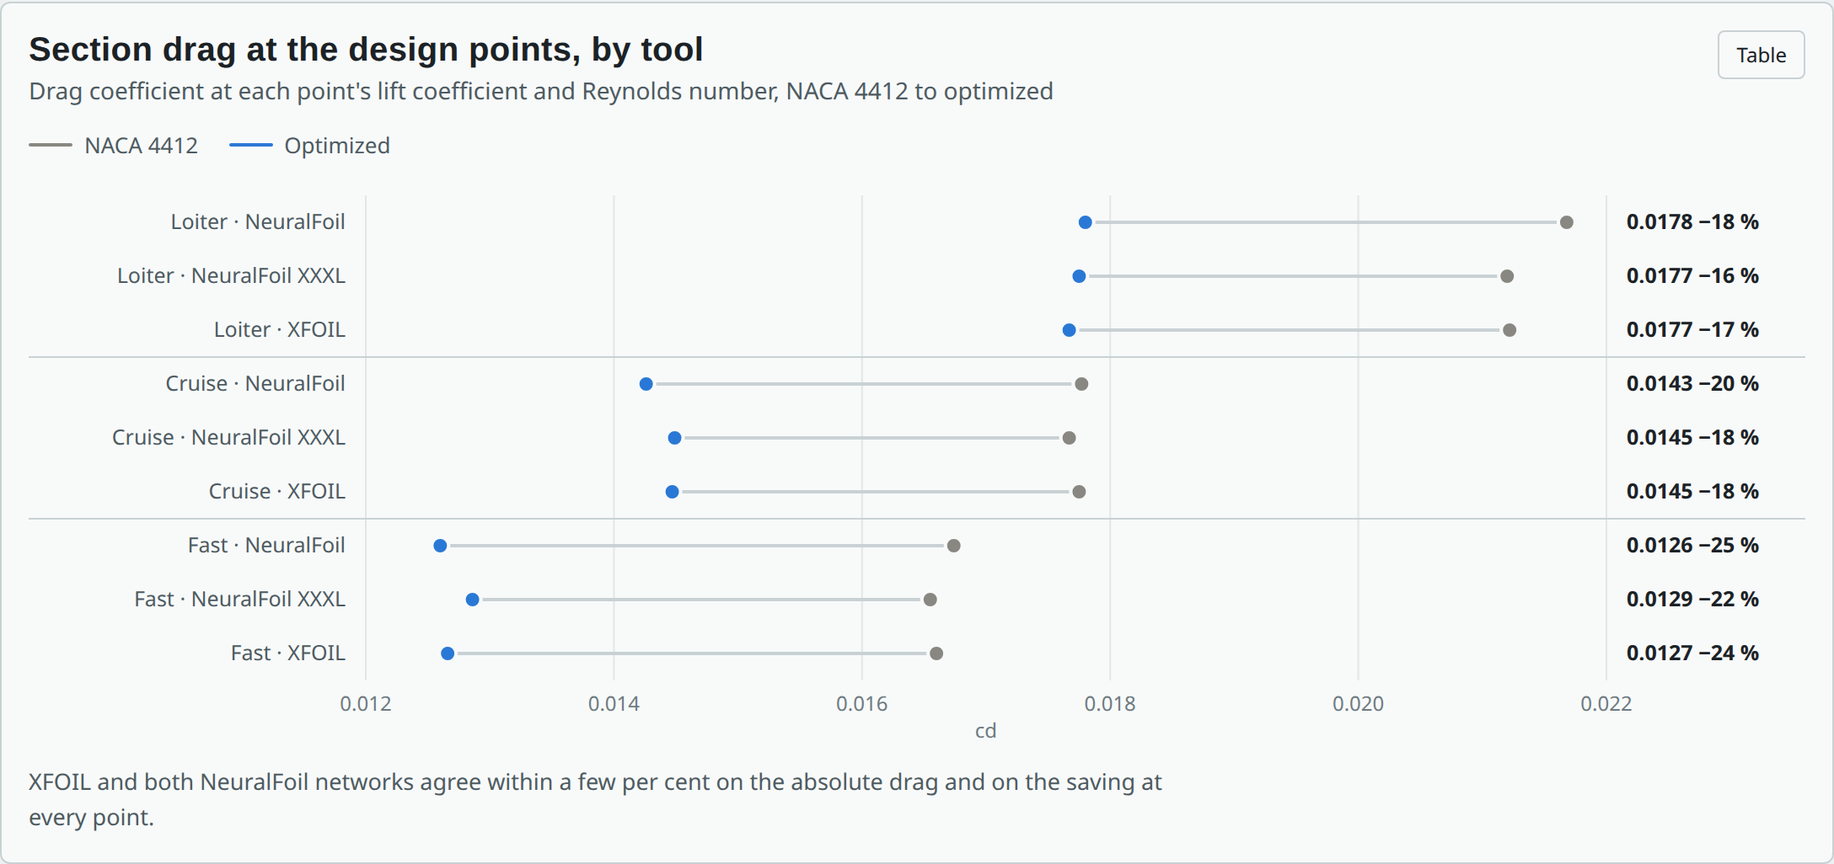
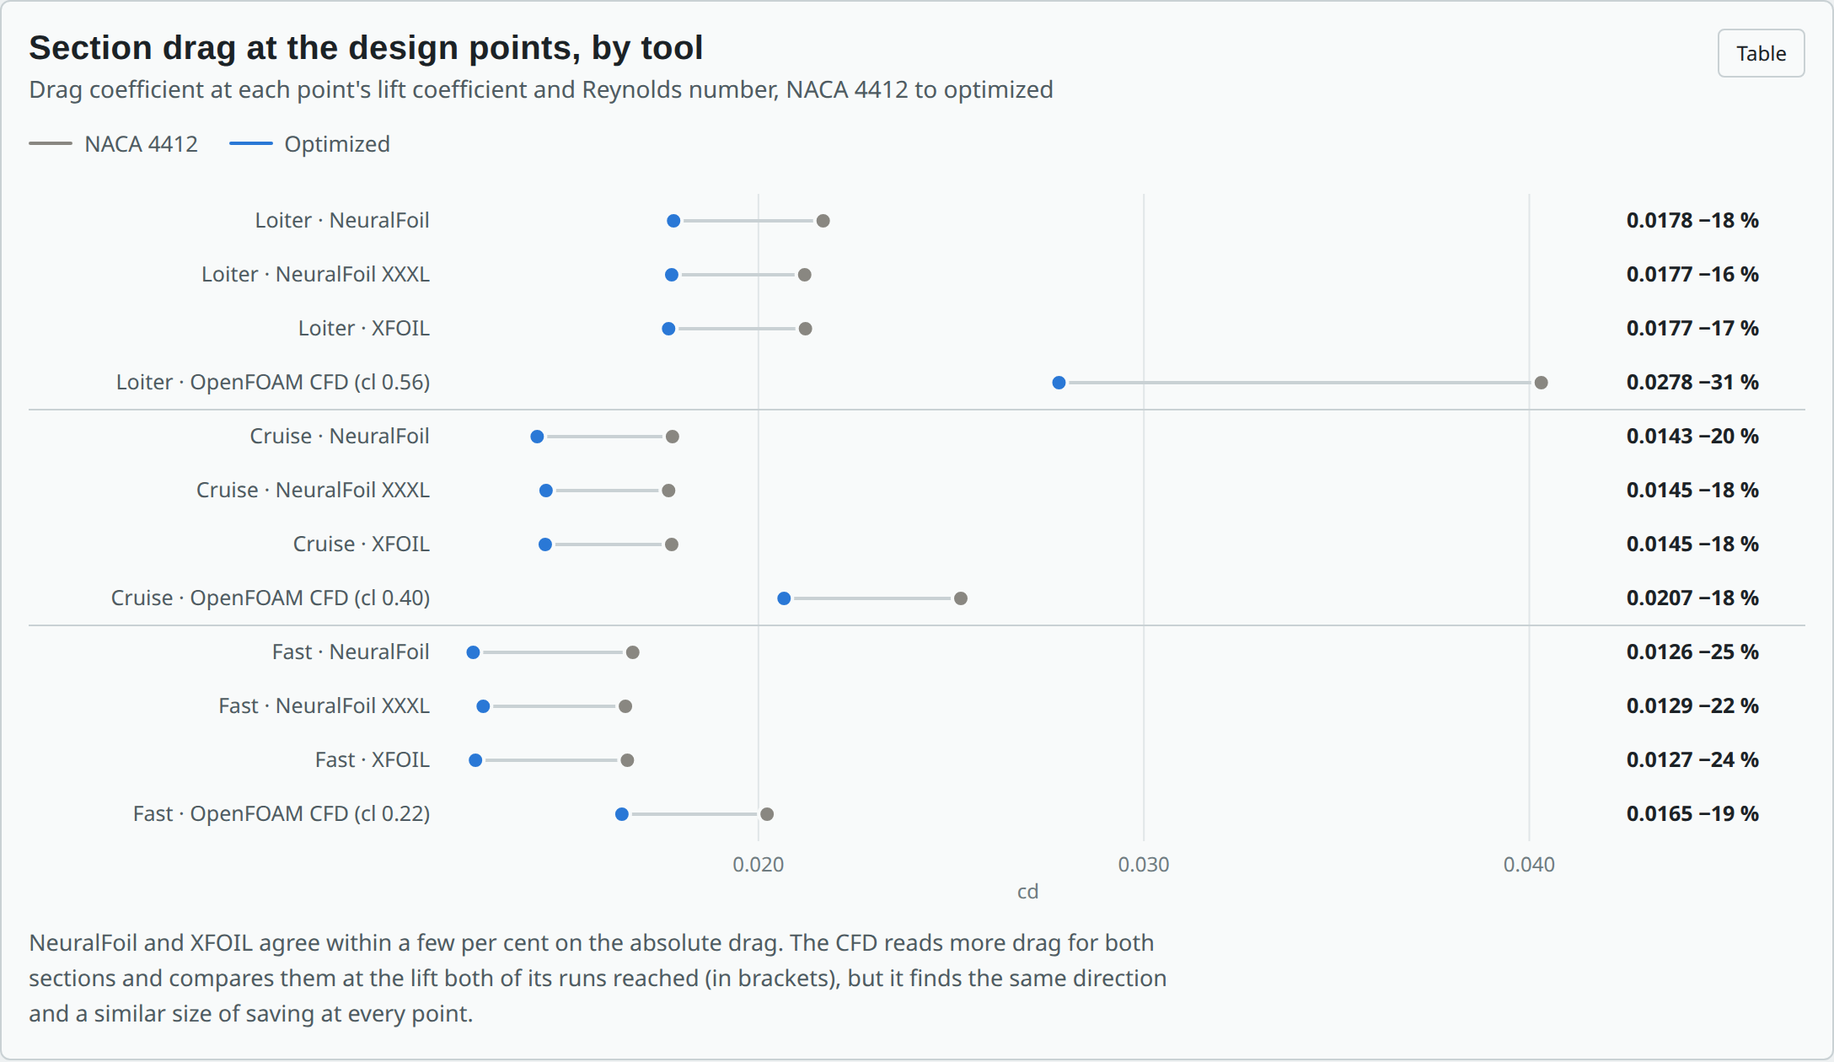
Finish the cross-checks: CFD results, polar panels, README section
The OpenFOAM runs are in: at equal lift the optimized section has 18-31 %
less drag than the NACA 4412 at the three design points, the same ranking as
NeuralFoil and XFOIL. The set-up check at Re 1e6 lands within 2 % lift and
3 % drag of XFOIL. The page plots every CFD run against the polars, and the
README gains a Cross-checks section.

Claude-Session: https://claude.ai/code/session_01VTcHBPQk54N4vWFkgkuVEf

diff --git a/aero/study/index.html b/aero/study/index.html
@@ -67,7 +67,9 @@
   .grid2 { display: grid; grid-template-columns: repeat(2, minmax(0, 1fr)); gap: 16px; }
   @media (max-width: 880px) { .grid2 { grid-template-columns: minmax(0, 1fr); } }
   figure { margin: 0; background: var(--panel); border: 1px solid var(--rule); border-radius: 6px; padding: 16px; display: grid; gap: 10px; min-width: 0; }
-  figure.wide, .grid3.wide { grid-column: 1 / -1; }
+  figure.wide, .xc-pol.wide { grid-column: 1 / -1; }
+  .xc-pol { display: grid; gap: 10px; min-width: 0; }
+  .xc-pol .fhead p { font-size: 14px; color: var(--ink-2); margin-top: 2px; }
   .grid3 { display: grid; grid-template-columns: repeat(3, minmax(0, 1fr)); gap: 16px; }
   @media (max-width: 980px) { .grid3 { grid-template-columns: minmax(0, 1fr); } }
   .fhead { display: flex; justify-content: space-between; align-items: start; gap: 12px; }
@@ -163,10 +165,15 @@
     <div class="tools" id="xc-tools"></div>
     <div class="grid2">
       <figure class="wide" id="f-xc-drag"></figure>
-      <div class="grid3 wide" id="xc-polars" hidden>
-        <figure id="f-xc-pol-0"></figure>
-        <figure id="f-xc-pol-1"></figure>
-        <figure id="f-xc-pol-2"></figure>
+      <div class="xc-pol wide" id="xc-polars" hidden>
+        <div class="fhead"><div><h3>The CFD runs against the polars</h3>
+          <p>Drag against lift at each point's Reynolds number: every CFD run is a diamond, its bars how far lift and drag swing in the last 1000 iterations</p></div></div>
+        <div class="legend" id="xc-pol-legend"></div>
+        <div class="grid3">
+          <figure id="f-xc-pol-0"></figure>
+          <figure id="f-xc-pol-1"></figure>
+          <figure id="f-xc-pol-2"></figure>
+        </div>
       </div>
       <figure id="f-xc-stall"></figure>
       <figure id="f-xc-ncrit"></figure>
@@ -188,6 +195,8 @@
     <pre>pip install -r aero/requirements.txt
 python3 aero/efficiency.py            # rerun the study (about a minute)
 python3 aero/efficiency.py --n-crit 5 # for a rougher printed skin
+python3 aero/crosscheck.py            # the cross-checks: XFOIL and AeroSandbox (under a minute)
+python3 aero/crosscheck.py --cfd --work runs/cfd   # and OpenFOAM 2D CFD (about 3 hours on 4 cores)
 # then serve aero/study/ and open index.html; the airfoil is in aero/study/kipina-opt.dat</pre>
   </section>
 
@@ -490,12 +499,6 @@ python3 aero/efficiency.py --n-crit 5 # for a rougher printed skin
     const hide = () => { cross.setAttribute("visibility", "hidden"); tip.hidden = true; };
     hit.addEventListener("pointermove", (e) => { const r = svg.getBoundingClientRect(); show(Math.round(((e.clientX - r.left) / r.width * W - m.l) / sc) - 1); });
     hit.addEventListener("pointerleave", hide);
-    for (const dt of o.dots || []) {
-      svg.appendChild(dt._g);                                   // above the hit area
-      const on = () => { hide(); const r = svg.getBoundingClientRect(), sc = r.width / W; tipRows(tip, dt.title, dt.rows, dt._cx * sc, dt._cy * sc, { width: r.width, height: r.height }); };
-      dt._g.addEventListener("pointerenter", on); dt._g.addEventListener("focus", on);
-      dt._g.addEventListener("pointerleave", () => { tip.hidden = true; }); dt._g.addEventListener("blur", () => { tip.hidden = true; });
-    }
     svg.addEventListener("focus", () => show(idx)); svg.addEventListener("blur", hide);
     svg.addEventListener("keydown", (e) => { if (e.key === "ArrowRight") { show(idx + 1); e.preventDefault(); } if (e.key === "ArrowLeft") { show(idx - 1); e.preventDefault(); } });
   }
@@ -736,12 +739,24 @@ python3 aero/efficiency.py --n-crit 5 # for a rougher printed skin
       fmt: (v) => v.toFixed(3), valFmt: (v) => v.toFixed(4), tipFmt: (v) => v.toFixed(4), label: "cd", after: "optimized", ml: 250, mr: 118, names: ["NACA 4412", "Optimized"],
       legend: [{ key: "baseline", label: "NACA 4412" }, { key: "optimized", label: "Optimized" }],
       table: [["point · tool", "NACA 4412", "optimized", "change"], ...rows.map((r) => [r.label, r.a.toFixed(4), r.b.toFixed(4), pct(r.a, r.b)])],
-      caption: of ? "The tools differ on the absolute drag by a few per cent, the CFD most (RANS transition models read low-Reynolds laminar runs differently from XFOIL), but they agree on the direction and roughly the size of the saving at every point." :
+      caption: of ? "NeuralFoil and XFOIL agree within a few per cent on the absolute drag. The CFD reads more drag for both sections and compares them at the lift both of its runs reached (in brackets), but it finds the same direction and a similar size of saving at every point." :
         "XFOIL and both NeuralFoil networks agree within a few per cent on the absolute drag and on the saving at every point.",
     });
 
     // the CFD runs against the polars, one panel per point
     $("xc-polars").hidden = !of;
+    if (of) {
+      const lg = $("xc-pol-legend");
+      lg.replaceChildren();
+      for (const it of [{ key: "baseline", label: "NACA 4412" }, { key: "optimized", label: "Optimized" }, { key: "--ink", label: "NeuralFoil" },
+                        { key: "--ink", dash: TOOL.xfoil.dash, label: "XFOIL" }]) {
+        const sp = h("span", {}, lg); sample(sp, it.key, it.dash); sp.appendChild(document.createTextNode(it.label));
+      }
+      const sp = h("span", {}, lg);
+      const sv = el("svg", { width: 26, height: 12, "aria-hidden": "true" }, sp);
+      el("rect", { x: 9, y: 2, width: 8, height: 8, fill: css("--ink"), rx: 1.5, transform: "rotate(45 13 6)" }, sv);
+      sp.appendChild(document.createTextNode("OpenFOAM CFD run"));
+    }
     if (of) P.forEach((p, i) => {
       const pol = (sec) => sec.polars[i].cl.map((c, j) => [c, sec.polars[i].cd[j]]).filter((q) => q[1] < 0.06).sort((a, b) => a[0] - b[0]);
       const upto = (pts) => { const out = []; for (const q of pts) { if (out.length && q[0] <= out[out.length - 1][0]) continue; out.push(q); } return out; };
@@ -767,9 +782,8 @@ python3 aero/efficiency.py --n-crit 5 # for a rougher printed skin
       const b = of.sections.baseline.points[i], o = of.sections.optimized.points[i];
       const grid = []; for (let v = x0; v <= x1 + 1e-9; v += 0.02) grid.push(+v.toFixed(2));
       lineChart($(`f-xc-pol-${i}`), {
-        title: `${cap(p.name)}, ${p.v} m/s`, sub: `Reynolds number ${(p.re / 1e3).toFixed(0)}k, design lift ${p.cl.toFixed(2)}`,
+        title: `${cap(p.name)}, ${p.v} m/s`, sub: `Re ${(p.re / 1e3).toFixed(0)}k, design cl ${p.cl.toFixed(2)}`,
         aria: `Drag against lift at the ${p.name} point: NeuralFoil and XFOIL polars and the CFD runs for both sections`,
-        legend: i === 0 ? [{ key: "baseline", label: "NACA 4412" }, { key: "optimized", label: "Optimized" }, { key: "--ink", label: "NeuralFoil" }, { key: "--ink", dash: TOOL.xfoil.dash, label: "XFOIL" }] : null,
         x: { domain: [x0, x1], label: "lift coefficient cl", fmt: (v) => v.toFixed(1), tipFmt: (v) => `cl ${v.toFixed(2)}`, ticks: niceTicks(x0, x1, 4) },
         y: { domain: [y0, y1], label: "drag coefficient cd", fmt: (v) => v.toFixed(3), tipFmt: (v) => v.toFixed(4), ticks: niceTicks(y0, y1, 4) },
         series: lines, dots, xs: grid, mr: 16, height: 280,
@@ -841,8 +855,10 @@ python3 aero/efficiency.py --n-crit 5 # for a rougher printed skin
         series: ser.map((s) => ({ ...s, points: s.points.filter((p) => p[0] >= 0.005 && p[0] <= 0.995) })), xs: xGrid, mr: 24,
         table: [["x/c", ...ser.map((s) => s.label)], ...[0.05, 0.1, 0.2, 0.3, 0.4, 0.5, 0.6, 0.7, 0.8, 0.9].map((xv) => [xv.toFixed(2), ...ser.map((s) => interp(s.points, xv).toFixed(2))])],
         caption: key === "baseline"
-          ? "The upper curve is the suction side. Where the pressure flattens into a plateau and then drops back, a laminar separation bubble sits on the surface; the tools place it at about the same point."
-          : "The optimized section's longer, gently falling suction on the upper surface keeps the flow attached and laminar further back. Its bubble is shorter and later, the source of most of the saving.",
+          ? "The upper curve is the suction side. Where the pressure flattens into a plateau and then drops back, a laminar separation bubble sits on the surface: NeuralFoil and XFOIL put it near x/c 0.8." +
+            (of ? " The CFD, at a little less lift, has the flow leaving the surface from about mid-chord, with the wiggles of an unsteady separated layer." : "")
+          : "The optimized section's longer, gently falling suction on the upper surface keeps the flow attached and laminar further back, and its bubble is shorter." +
+            (of ? " In the CFD the flow is back on the surface before the trailing edge, where on the NACA 4412 it is not: most of the saving." : " That is where most of the saving comes from."),
       });
     }
 
@@ -896,12 +912,14 @@ python3 aero/efficiency.py --n-crit 5 # for a rougher printed skin
     if (of && of.verify && of.verify.cfd && of.verify.xfoil && of.verify.cfd.cd) {
       const v = of.verify, c = v.cfd, x = v.xfoil;
       const d = (a, b) => `${((a - b) / b * 100).toFixed(0).replace("-", "−")} %`;
-      h("p", {}, notesEl, `First a check of the CFD set-up where XFOIL and RANS are both dependable: the NACA 4412 at a Reynolds number of ${(v.re / 1e6).toFixed(0)} million and ${v.alpha}°. The CFD gives lift ${c.cl.toFixed(3)} and drag ${c.cd.toFixed(4)}, XFOIL ${x.cl.toFixed(3)} and ${x.cd.toFixed(4)} (${d(c.cl, x.cl)} and ${d(c.cd, x.cd)}), with the transition in the same place. So the mesh, the far field and the force integration are sound, and what differs at the plane's own Reynolds numbers is the transition physics.`);
+      h("p", {}, notesEl, `Before trusting the CFD at the plane's Reynolds numbers, its set-up was checked where XFOIL and RANS are both dependable: the NACA 4412 at a Reynolds number of ${(v.re / 1e6).toFixed(0)} million and ${v.alpha}°. The CFD gives lift ${c.cl.toFixed(3)} and drag ${c.cd.toFixed(4)}, XFOIL ${x.cl.toFixed(3)} and ${x.cd.toFixed(4)} (${d(c.cl, x.cl)} and ${d(c.cd, x.cd)}), with the transition in the same place. So the mesh, the far field and the force integration are sound, and what differs at the plane's own Reynolds numbers is the transition physics.`);
     }
     if (of) {
-      const o = sm.openfoam, g = of.grid;
-      const gtxt = g && g.fine_cd ? ` A grid with ${(g.cells / 1000).toFixed(0)}k cells gives a drag ${Math.abs((g.cd - g.fine_cd) / g.fine_cd * 100).toFixed(1)} % ${g.cd > g.fine_cd ? "higher" : "lower"} than the ${(g.fine_cells / 1000).toFixed(0)}k-cell one.` : "";
-      h("p", {}, notesEl, `The CFD is the independent one: a different transition model on a real mesh. It gives the NACA 4412 a cruise drag of ${o.baseline[1]?.toFixed(4) ?? "–"} and the optimized section ${o.optimized[1]?.toFixed(4) ?? "–"} (${o.change[1] != null ? (o.change[1] > 0 ? "+" : "−") + Math.abs(o.change[1]).toFixed(0) + " %" : "–"}), at a free-stream turbulence of ${of.turbulence.tu_percent} % to match n_crit ${X.n_crit}.${gtxt} RANS transition models are calibrated on higher Reynolds numbers than these, so its absolute drag is the least certain of the four; the direction of the change is the point.`);
+      const o = sm.openfoam, g = of.grid, xs2 = sm.xfoil;
+      const ratios = ["baseline", "optimized"].flatMap((k) => o[k].map((c, i) => (c != null && xs2[k][i] ? c / xs2[k][i] - 1 : null))).filter((v) => v != null);
+      const ch = o.change.filter((v) => v != null).map(Math.abs);
+      const gtxt = g && g.fine_cd ? ` A coarser grid (${(g.cells / 1000).toFixed(0)}k cells against ${(g.fine_cells / 1000).toFixed(0)}k) reads ${Math.abs((g.cd - g.fine_cd) / g.fine_cd * 100).toFixed(0)} % ${g.cd > g.fine_cd ? "more" : "less"} drag on the NACA 4412 at cruise: the separated flow is sensitive to resolution, so the CFD's absolute numbers are uncertain by tens of per cent.` : "";
+      h("p", {}, notesEl, `The CFD is the independent one: a different transition model on a real mesh, with a free-stream turbulence of ${of.turbulence.tu_percent.toFixed(2)} % to match n_crit ${X.n_crit}. At these Reynolds numbers it leaves the NACA 4412's upper surface separated from about mid-chord to the trailing edge, where XFOIL closes a short bubble. So it reads less lift at a given angle, ${Math.round(Math.min(...ratios) * 100 / 10) * 10}–${Math.round(Math.max(...ratios) * 100 / 10) * 10} % more drag than XFOIL near the same lift, and a solution that keeps swinging (the whiskers in the panels). On the optimized section the bubble closes before the trailing edge at loiter and cruise. Compared at the same lift, inside the range both of its runs reached, the CFD puts the optimized section ${Math.min(...ch).toFixed(0)}–${Math.max(...ch).toFixed(0)} % ahead at every point (${Math.abs(o.weighted_change).toFixed(0)} % weighted).${gtxt} The ranking is the point, and it agrees with the other three tools.`);
     }
     h("p", {}, notesEl, `For the whole plane, the part both methods model the same way (the wing) agrees within ${Math.abs((cb.buildup_parts.wing - cb.handbook_parts.wing) / cb.handbook_parts.wing * 100).toFixed(0)} %. The study's extra drag is the blunt pod nose, the horns, wires and antenna, and the junctions, which AeroBuildup leaves out, so its total is a floor, not a better estimate. The vortex lattice says the study's induced drag is about ${((1 - pl.vlm.assumed / pl.vlm.e) * 100).toFixed(0)} % high. Taken together the study's whole-plane numbers look, if anything, pessimistic; a glide test is still the real check.`);
     $("crosscheck").hidden = false;

diff --git a/aero/README.md b/aero/README.md
@@ -1,12 +1,16 @@
 # Drag and efficiency tools
 
-Two tools for this repository's aircraft:
+Three tools for this repository's aircraft:
 
 - **The efficiency study** (`efficiency.py`) is the one with real
   aerodynamics. It optimizes the Kipinä wing's airfoil with NeuralFoil, an
   XFOIL-trained model, within what the printed wing and the plane need. It
   then compares the whole plane before and after, with charts
   ([study/index.html](study/index.html)).
+- **The cross-checks** (`crosscheck.py`) run the study's two wing sections and
+  the whole plane through independent tools: XFOIL, 2D CFD in OpenFOAM, and
+  AeroSandbox's drag build-up and vortex lattice
+  ([Cross-checks](#cross-checks-do-other-tools-agree)).
 - **The handbook optimizer** (`optimize.py`) searches design choices with a
   drag build-up of handbook formulas. It covers the Kipinä airframe
   (`airframe`), and a typical 5-inch (`quad`) and 7-inch (`quad7`) FPV quad.
@@ -100,13 +104,114 @@ It writes these files:
 ![Drag by part](study/figures/breakdown.png)
 
 **Limits of the study:**
-- **NeuralFoil:** its results match XFOIL. At these Reynolds numbers XFOIL is
-  good for ranking sections, but optimistic about laminar flow on a printed
-  skin.
+- **NeuralFoil:** its results match XFOIL (checked below). At these Reynolds
+  numbers XFOIL is good for ranking sections, but optimistic about laminar
+  flow on a printed skin.
 - **Whole-plane numbers:** they carry the drag build-up's ±30 %.
 - **Detail changes:** they are not in the CAD yet.
 - **Check before trusting the minutes:** print one wing panel of each section
   and compare glides.
+
+## Cross-checks: do other tools agree?
+
+```sh
+sudo apt install xfoil openfoam            # Ubuntu; OpenFOAM only for --cfd
+python3 aero/crosscheck.py                 # NeuralFoil, XFOIL, AeroSandbox: under a minute
+python3 aero/crosscheck.py --cfd --work runs/cfd            # and 2D CFD: about 3 hours on 4 cores
+python3 aero/crosscheck.py --cfd --work runs/cfd --resume   # carry on after a stop
+```
+
+It runs the same two wing sections and the same plane through independent
+tools. It writes `study/crosscheck.json` and `study/CROSSCHECK.md` (the numbers
+as tables), and the study page gets a cross-check section.
+
+| Tool | What it checks | How |
+|---|---|---|
+| NeuralFoil, xxxlarge | the network's own fit | its biggest network, on the same points |
+| XFOIL 6.99 | NeuralFoil against the code it imitates | the exact shapes at the design lift, a stall sweep, n_crit 5 to 9 (`xfoil.py`) |
+| OpenFOAM v1912 | different physics | 2D RANS, k-ω SST with Langtry–Menter transition, a 67k-cell C-grid with y+ under 1, a point-vortex far field (`cfd.py`) |
+| AeroSandbox AeroBuildup | the whole-plane drag build-up | its own component drag models |
+| Vortex lattice (AeroSandbox) | the induced drag | span efficiency in the Trefftz plane |
+
+![Section drag by tool](study/figures/xc-drag.png)
+
+**Wing section.** Drag change from the NACA 4412 to the optimized section:
+
+| | Loiter | Cruise | Fast | Weighted |
+|---|---|---|---|---|
+| NeuralFoil (the study) | −18 % | −20 % | −25 % | −20 % |
+| NeuralFoil, xxxlarge | −16 % | −18 % | −22 % | −18 % |
+| XFOIL | −17 % | −18 % | −24 % | −19 % |
+| OpenFOAM CFD, at equal lift | −31 % | −18 % | −19 % | −24 % |
+
+- **XFOIL** matches NeuralFoil within 2–3 %:
+  - cruise drag 0.0177 and 0.0145, against 0.0178 and 0.0143;
+  - maximum lift 1.40 and 1.42, against 1.38 and 1.41;
+  - the angles those peaks come at.
+
+  The optimizer did not exploit a gap in the network.
+- **Surface quality:** XFOIL also finds that the new section's cruise drag
+  barely moves between n_crit 5 and 9 (0.0145–0.0152). The NACA 4412's runs
+  0.0156–0.0216.
+- **CFD set-up check:** at a Reynolds number of 1 million, where XFOIL and RANS
+  are both dependable, the CFD gives the NACA 4412:
+  - lift 0.905 (XFOIL 0.925);
+  - drag 0.0072 (XFOIL 0.0074);
+  - transition in the same place.
+
+  The mesh, the far field and the force integration are sound.
+- **CFD at the plane's Reynolds numbers:**
+  - **The NACA 4412:** the upper surface stays separated from about mid-chord
+    to the trailing edge, where XFOIL closes a short bubble. So the CFD reads
+    20–90 % more drag than XFOIL for both sections, and a solution that keeps
+    swinging.
+  - **The optimized section:** the flow is back on the surface before the
+    trailing edge at loiter and cruise.
+  - **At the same lift:** the optimized section has 18–31 % less drag.
+  - **Grid sensitivity:** a coarser grid reads 25 % more drag on the NACA 4412
+    at cruise, so the CFD's absolute numbers are uncertain by tens of per
+    cent.
+
+  Its ranking agrees with the other tools.
+
+![CFD runs against the polars](study/figures/xc-polars.png)
+
+**Whole plane.** At 13 m/s, as built:
+
+| Part | Study's build-up | AeroBuildup |
+|---|---|---|
+| Wing profile | 8.5 gf | 8.8 gf |
+| Tail | 2.2 gf | 1.8 gf |
+| Pod | 6.0 gf | 3.5 gf |
+| Booms, sockets, tail mount | 1.3 gf | 0.7 gf |
+| Horns, wires, antenna | 5.2 gf | not modelled |
+| Junctions | 1.8 gf | not modelled |
+| Induced | 8.0 gf | 7.9 gf |
+| **Total** | **33.0 gf** | **22.7 gf** |
+
+- **AeroBuildup:**
+  - **The wing**, the one part both model the same way, agrees within 4 %.
+  - **The rest of the gap** is in parts it has no model for: the blunt pod
+    nose, the horns, wires and antenna, and the junctions. So its total is a
+    floor, not a better estimate.
+  - **The optimized airfoil:** both give it the same saving (1.7 against
+    1.8 gf).
+- **Vortex lattice:** the span efficiency is 0.93, against the study's 0.8, so
+  the study's induced drag is about 14 % high. Cruise drag would be 31.9 gf
+  instead of 33.0.
+
+![Whole-plane drag by method](study/figures/xc-plane.png)
+
+**What this means:**
+- **The airfoil saving:** it holds up in every tool.
+- **The whole-plane numbers:** they look, if anything, pessimistic.
+- **A glide test:** still the real check.
+
+**Two notes on running the cross-checks:**
+- **Ubuntu's XFOIL** crashes on a floating-point trap. `xfoil.py` builds a
+  one-line shim that turns the trap off.
+- **Ubuntu's OpenFOAM** crashes on any in-run function object. `cfd.py` works
+  out the forces, pressure and friction from the written fields instead.
 
 ## Handbook optimizer
 

diff --git a/aero/study/CROSSCHECK.md b/aero/study/CROSSCHECK.md
@@ -15,6 +15,10 @@ Generated by `aero/crosscheck.py` from the sections in `study.json` (n_crit 7). 
 | XFOIL 6.99 | NACA 4412 | 0.0212 | 0.0177 | 0.0166 |  |
 |  | optimized | 0.0177 | 0.0145 | 0.0127 | -18.8 % |
 | | change | -17 % | -18 % | -24 % | |
+| OpenFOAM simpleFoam, k-omega SST + Langtry-Menter | NACA 4412 | 0.0403 | 0.0253 | 0.0202 |  |
+|  | optimized | 0.0278 | 0.0207 | 0.0165 | -23.6 % |
+| | change | -31 % | -18 % | -19 % | |
+| | compared at cl | 0.56 | 0.40 | 0.22 | |
 
 ## Maximum lift at 9 m/s (Re 60k)
 
@@ -25,6 +29,20 @@ Generated by `aero/crosscheck.py` from the sections in `study.json` (n_crit 7). 
 | XFOIL | 1.40 at 14.25° | 1.42 at 10.25° |
 
 XFOIL cruise cd against n_crit (5 rough, 9 smooth): NACA 4412: 5 → 0.0156, 7 → 0.0177, 9 → 0.0216; optimized: 5 → 0.0145, 7 → 0.0145, 9 → 0.0152.
+
+## The CFD runs
+
+OpenFOAM simpleFoam, k-omega SST + Langtry-Menter, free-stream turbulence 0.161 % (n_crit 7 by Mack's relation), 66960 cells, y+ under 1, a point-vortex far field. Two angles per point and section; the sections are compared at the same lift, inside the range both runs reached.
+
+| point | compared at cl | NACA 4412 cd | optimized cd | change | runs (angle: cl, cd ± half the swing) |
+|---|---|---|---|---|---|
+| loiter (design 0.66) | 0.562 | 0.0403 | 0.0278 | -31 % | 4412 2.13°: 0.490, 0.0339 ± 0.0024; 4412 3.77°: 0.562, 0.0403 ± 0.0015; opt 2.07°: 0.527, 0.0271 ± 0.0012; opt 3.36°: 0.638, 0.0294 ± 0.0020 |
+| cruise (design 0.45) | 0.399 | 0.0253 | 0.0207 | -18 % | 4412 0.15°: 0.392, 0.0235 ± 0.0051; 4412 0.70°: 0.399, 0.0270 ± 0.0023; opt 0.11°: 0.362, 0.0202 ± 0.0054; opt 0.94°: 0.429, 0.0210 ± 0.0013 |
+| fast (design 0.23) | 0.222 | 0.0202 | 0.0165 | -19 % | 4412 -1.87°: 0.127, 0.0243 ± 0.0013; 4412 -0.85°: 0.222, 0.0202 ± 0.0019; opt -1.23°: 0.200, 0.0163 ± 0.0036; opt -0.47°: 0.306, 0.0171 ± 0.0055 |
+
+Set-up check (NACA 4412, Re 1e+06, 4°, n_crit 9): CFD cl 0.905, cd 0.00719; XFOIL cl 0.925, cd 0.00744 (-2.2 % lift, -3.4 % drag).
+
+Grid check (NACA 4412 at cruise, same angle): 29920 cells cd 0.02934, cl 0.2917; 66960 cells cd 0.02348, cl 0.3920 (+24.9 % drag on the coarser grid).
 
 ## The whole plane
 

diff --git a/README.md b/README.md
@@ -12,6 +12,7 @@
 - [`aero/`](aero/README.md): drag and efficiency tools. An efficiency study
   optimizes the Kipinä wing's airfoil with NeuralFoil (an XFOIL-trained model)
   within what the printed wing needs, then compares the whole plane before and
-  after, with charts. A handbook optimizer ranks design changes for the
+  after, with charts. Cross-checks rerun it through XFOIL, 2D CFD (OpenFOAM) and
+  AeroSandbox. A handbook optimizer ranks design changes for the
   airframe and for typical 5-inch and 7-inch FPV quads (stock propulsion,
   scored on cruise power, with no speed objective).
